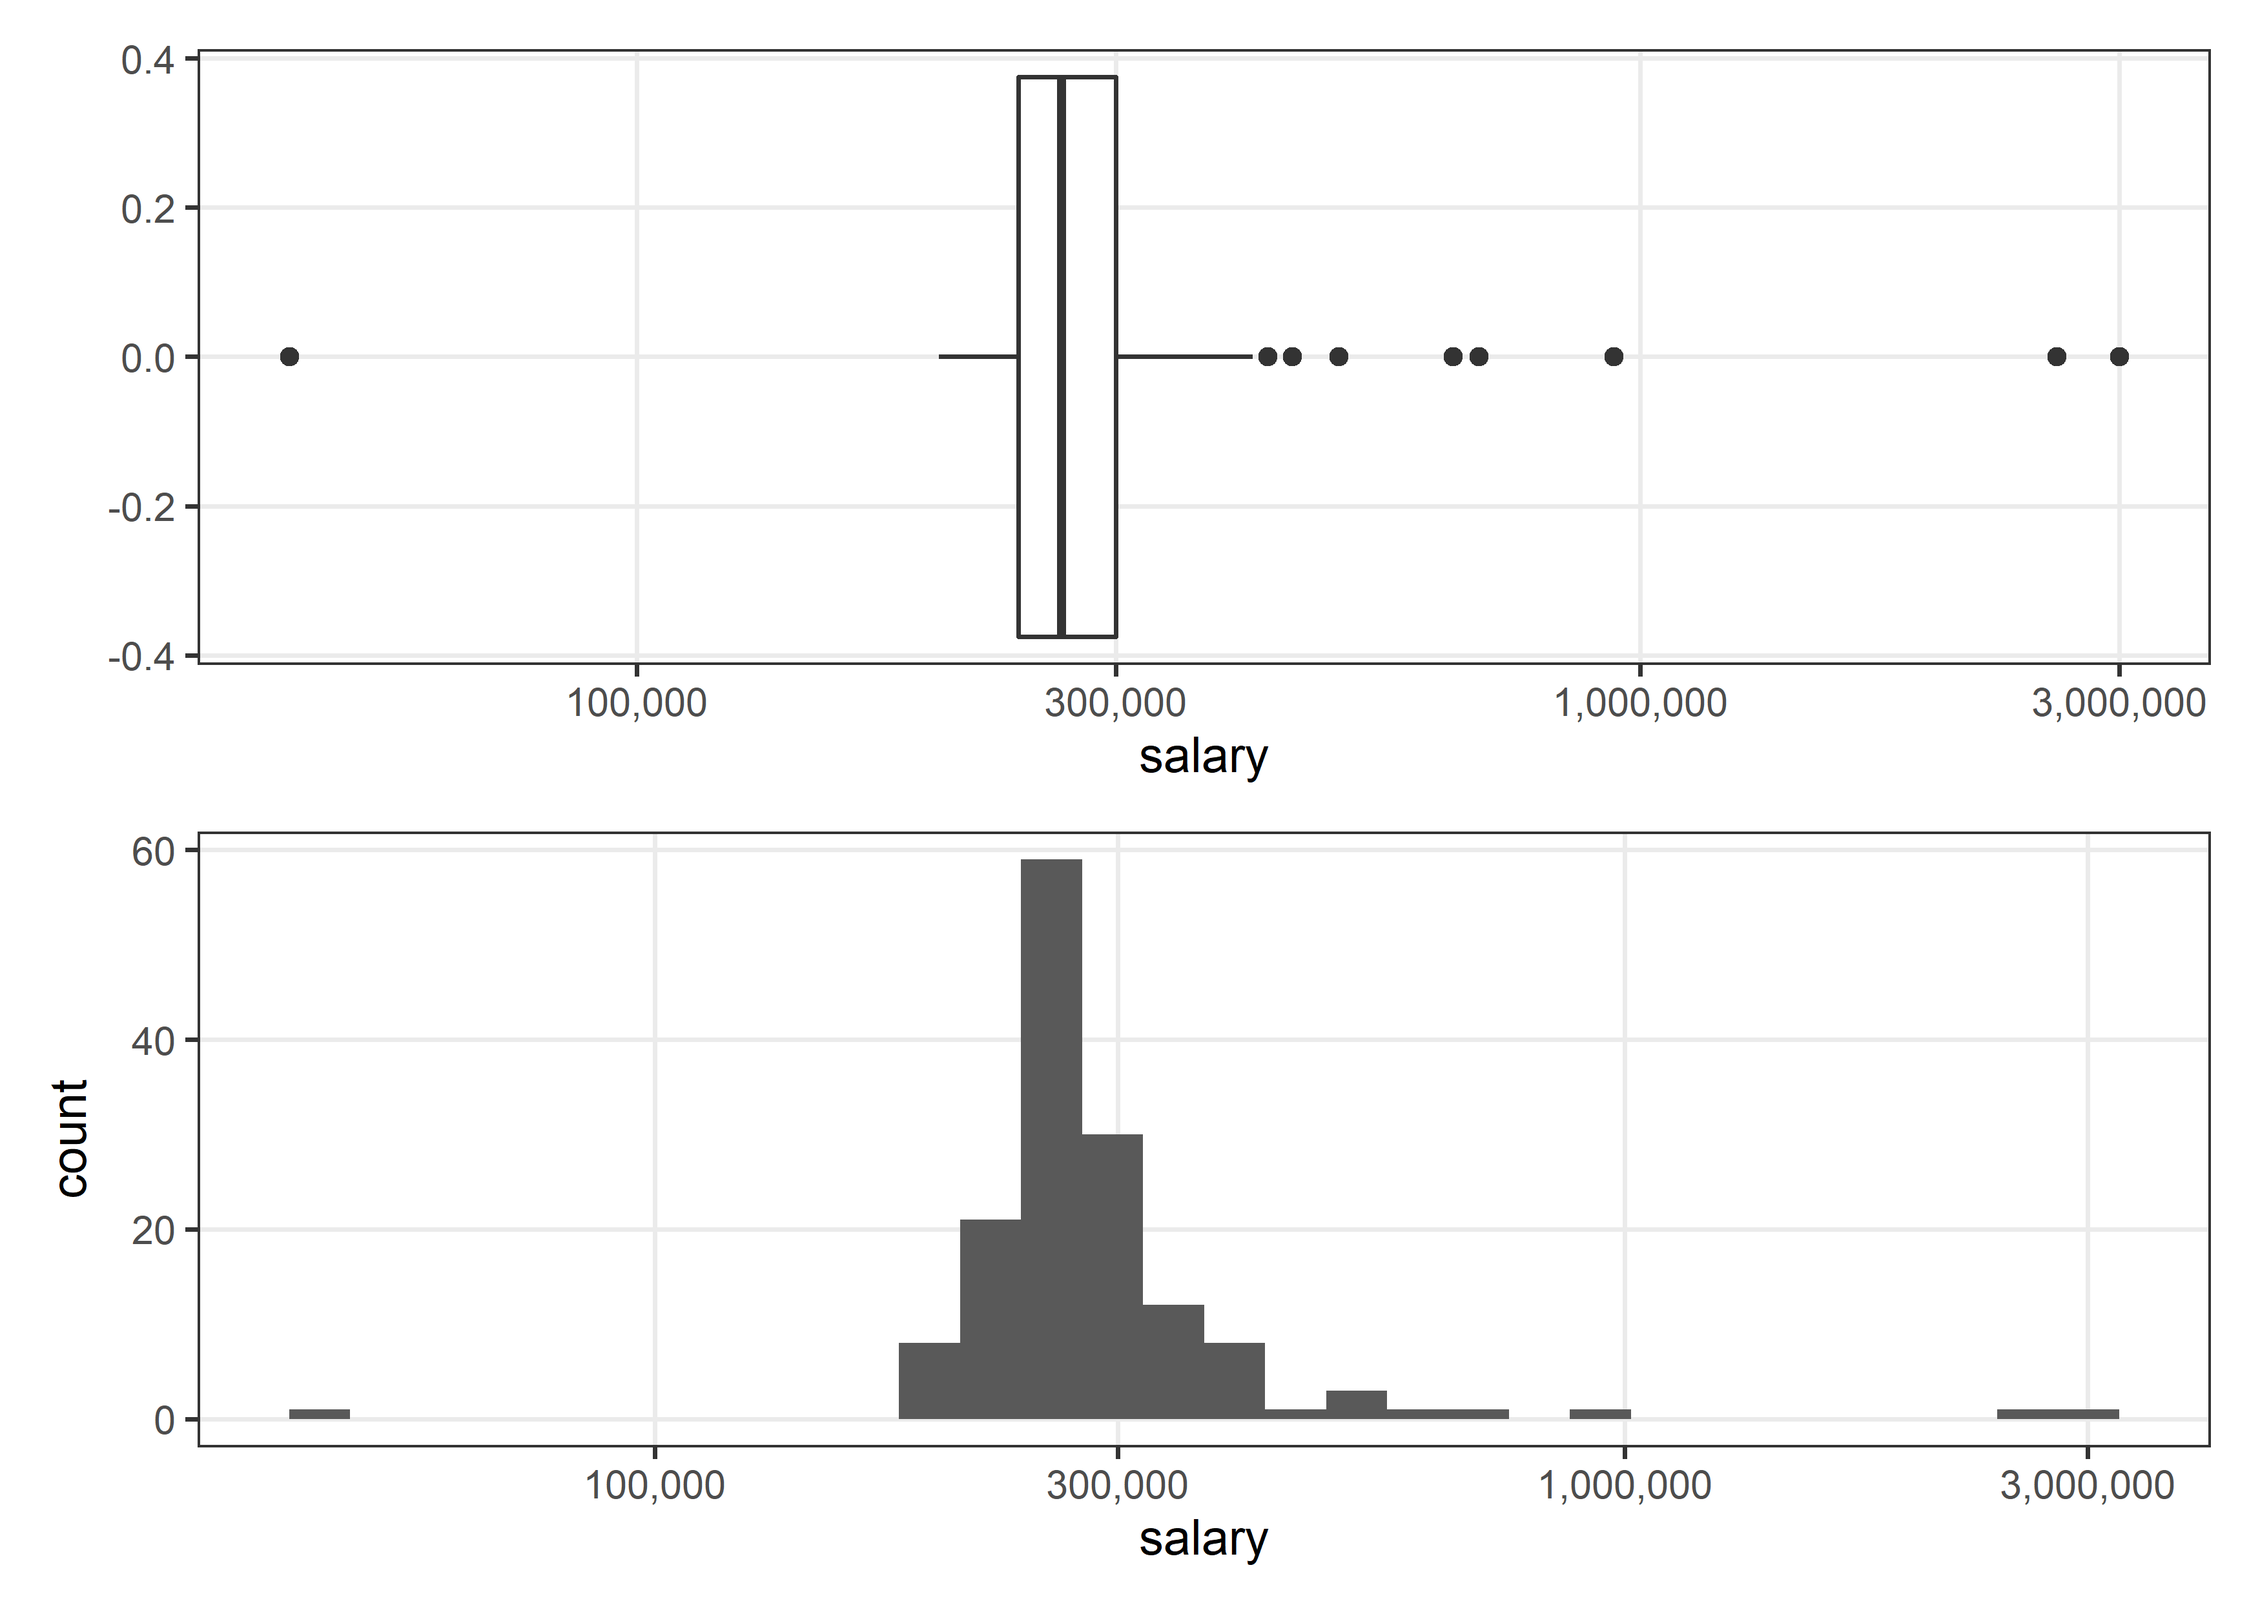
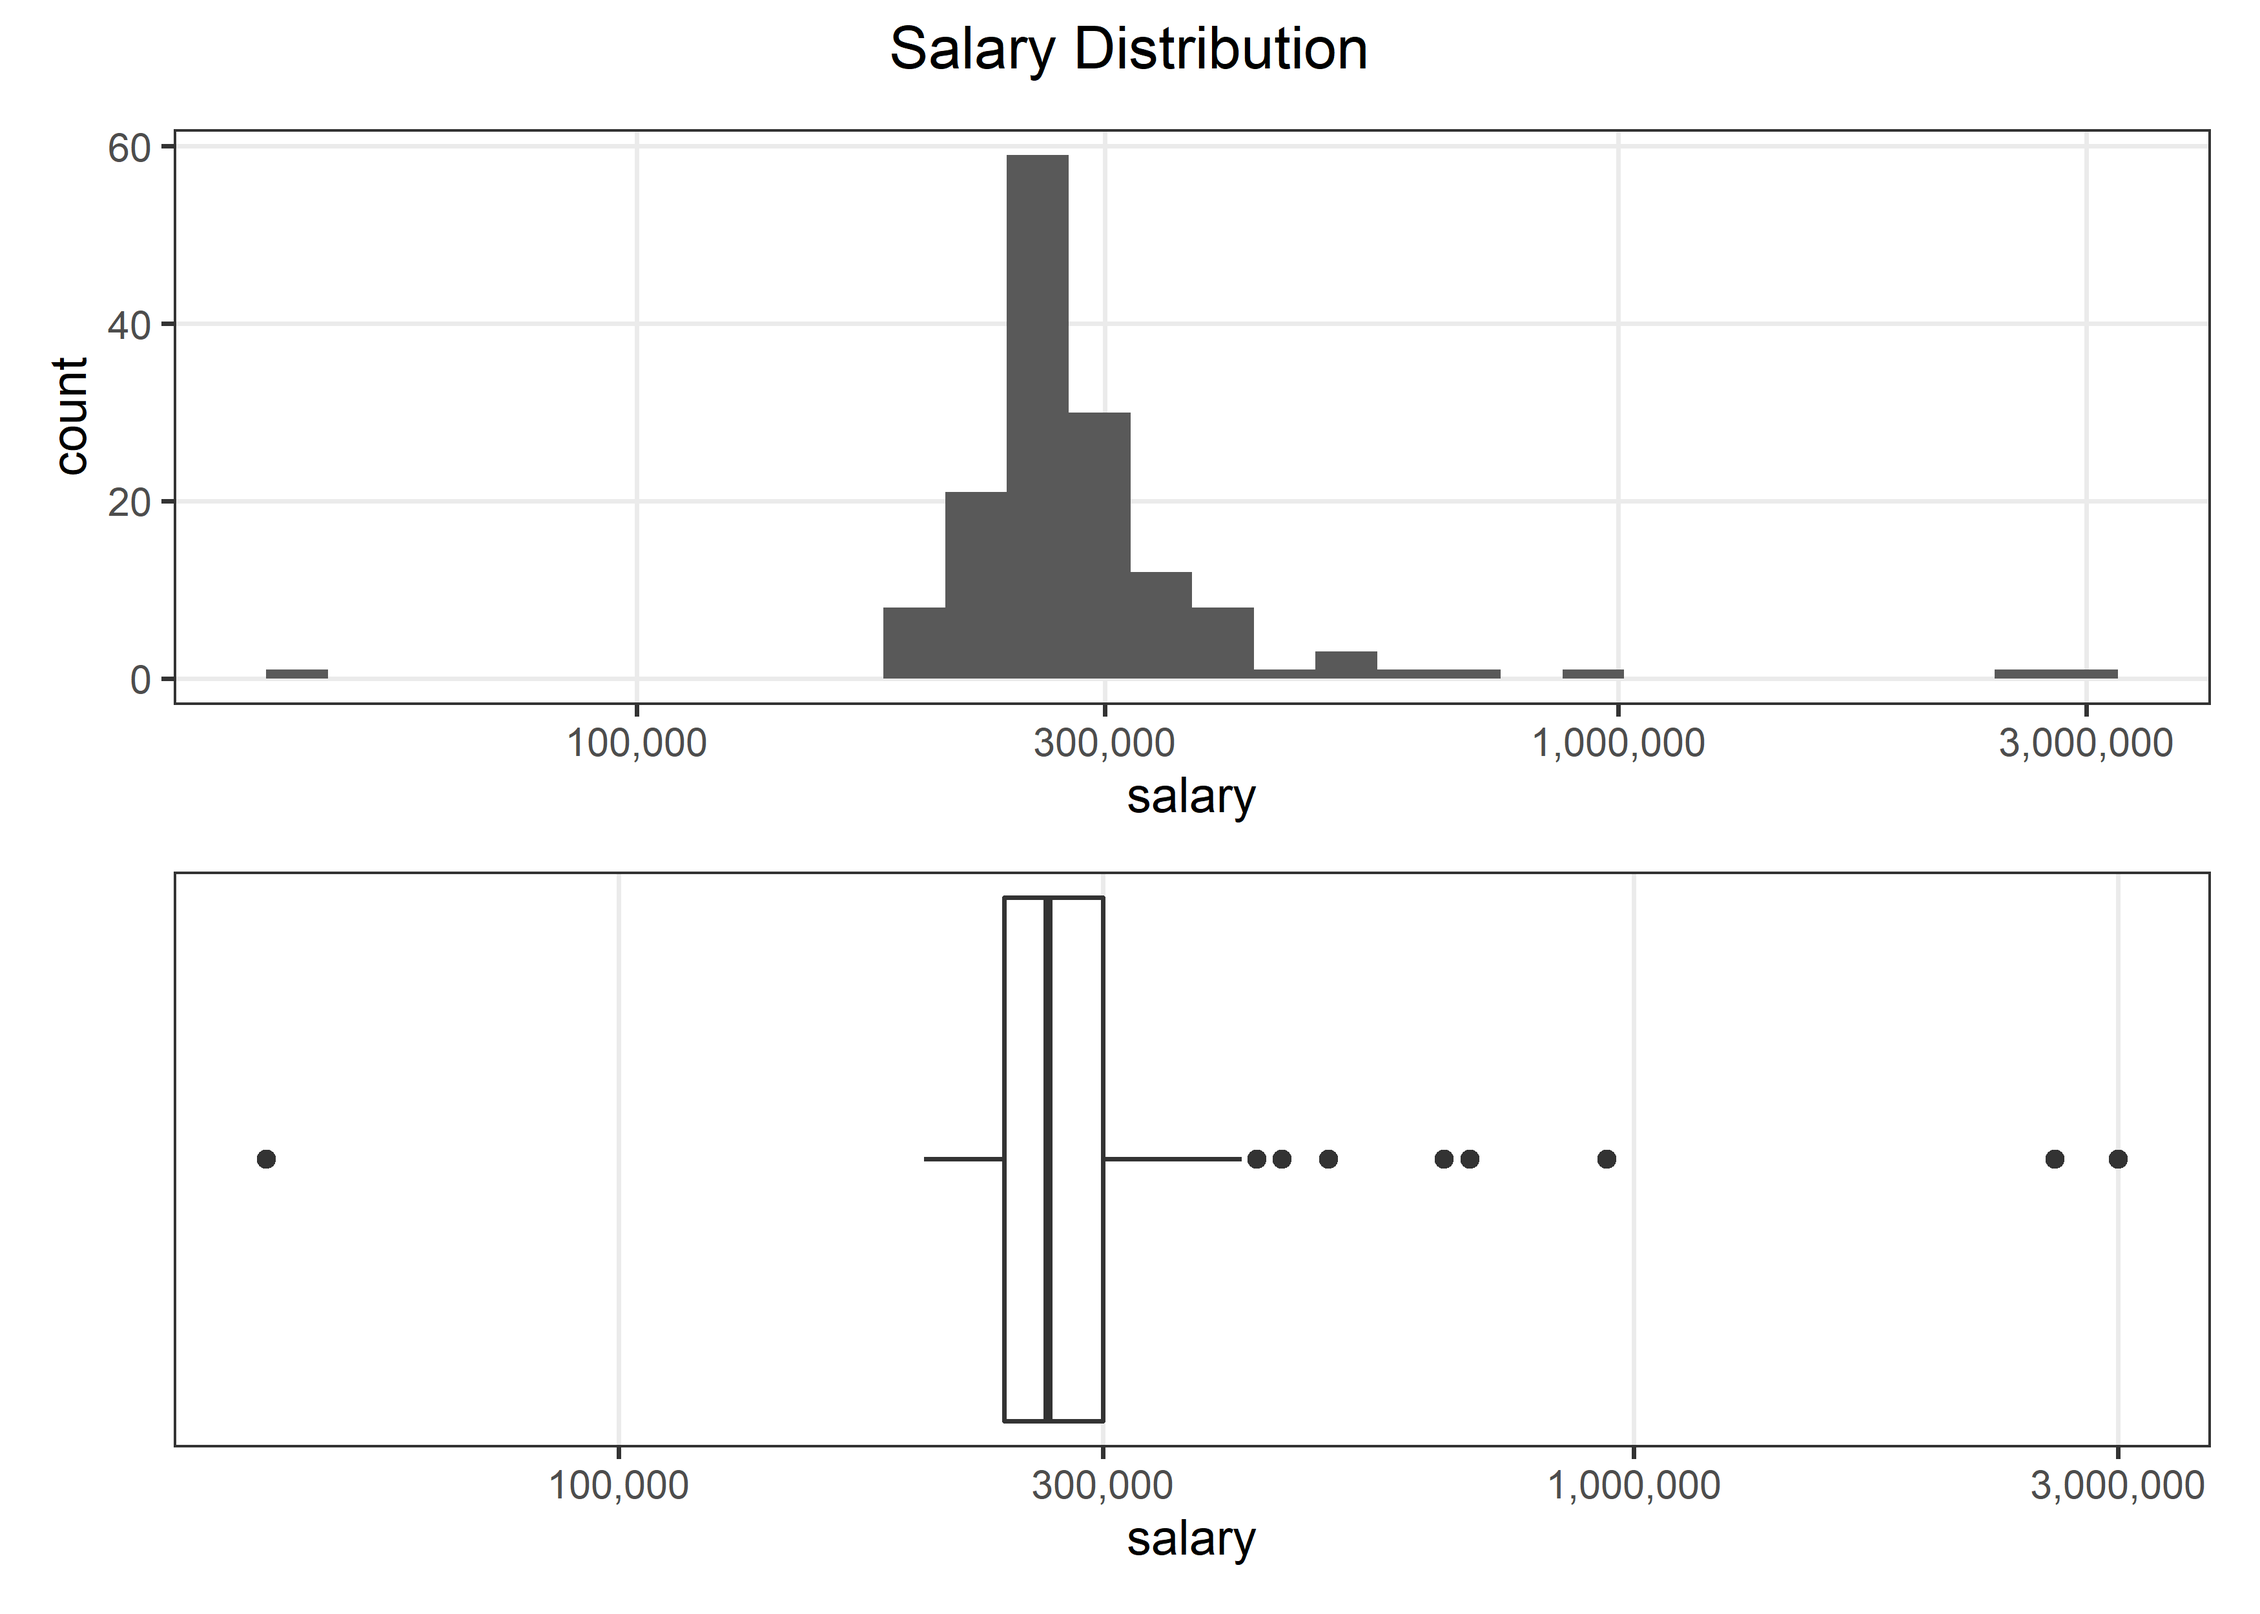
patchwork plots of Outlier heading

diff --git a/Masters Project Fall Placement/Masters-Project-Fall-Placement.md b/Masters Project Fall Placement/Masters-Project-Fall-Placement.md
@@ -7,6 +7,8 @@ Matthew
     -   <a href="#data-dictionary" id="toc-data-dictionary">Data Dictionary</a>
 -   <a href="#cleanse" id="toc-cleanse">Cleanse</a>
 -   <a href="#outliers" id="toc-outliers">Outliers</a>
+-   <a href="#who-are-these-graduates" id="toc-who-are-these-graduates">Who
+    are these graduates?</a>
 
 ``` r
 fall <- read_csv("C:/Users/Matthew Hondrakis/OneDrive/Documents/DataAnalysis/Masters Project Fall Placement/fall2022Placement.csv")
@@ -54,6 +56,10 @@ friends professor. The task is as follows.
     Prepare the data file to run with a regression analysis. Use the
     techniques and methods discussed in class. (*I’m not a student, so
     I’m unfamiliar with what methods were discussed in class*)
+
+-   **Run the regression analysis**: Show the regression scoring. Split
+    the data into training and test sets. Show a confusion matrix for
+    both.
 
 ## Data Dictionary
 
@@ -270,14 +276,97 @@ clean_fall <- fall %>%
 ``` r
 (fall %>% 
   ggplot(aes(salary)) +
-  geom_boxplot() +
-  scale_x_log10(labels = comma_format()))/
+  geom_histogram() +
+  scale_x_log10(labels = comma_format())) /
 (fall %>% 
   ggplot(aes(salary)) +
-  geom_histogram() +
-  scale_x_log10(labels = comma_format()))
+  geom_boxplot() +
+  scale_x_log10(labels = comma_format()) +
+  theme(axis.ticks.y = element_blank(),
+        axis.text.y = element_blank(),
+        axis.line.y = element_blank(),
+        panel.grid.major.y = element_blank())) +
+  plot_annotation(title = "Salary Distribution")
 ```
 
     ## `stat_bin()` using `bins = 30`. Pick better value with `binwidth`.
 
 ![](Masters-Project-Fall-Placement_files/figure-gfm/unnamed-chunk-4-1.png)<!-- -->
+
+``` r
+clean_fall %>% 
+  filter(salary != 0) %>% 
+  arrange(salary) %>% 
+  slice(1) %>% 
+  pull(salary)
+```
+
+    ## [1] 45000
+
+``` r
+updated_fall <- clean_fall %>% 
+  arrange(-salary) %>% 
+  slice(-c(1:8)) %>% 
+  filter(salary != 45000) 
+```
+
+# Who are these graduates?
+
+``` r
+clean_fall %>% 
+  keep(is.numeric) %>% 
+  select(-sl_no) %>% 
+  pairs(upper.panel = NULL)
+```
+
+![](Masters-Project-Fall-Placement_files/figure-gfm/unnamed-chunk-6-1.png)<!-- -->
+
+``` r
+updated_fall %>% 
+  ggplot(aes(salary, fill = gender)) + 
+  geom_boxplot() +
+  scale_x_log10(label = comma_format()) +
+  labs(x = "Salary", title = "Salary Distribution by Gender") +
+  theme(axis.text.y = element_blank(),
+        axis.ticks.y = element_blank(),
+        panel.grid.major.y = element_blank())
+```
+
+![](Masters-Project-Fall-Placement_files/figure-gfm/unnamed-chunk-7-1.png)<!-- -->
+
+Below I will create a function to quickly plot **counts** of factor
+variables. It is often advised to make a function if one foresees using
+the same plot/code often.
+
+``` r
+count_plot <- function(x){
+  updated_fall %>% 
+    filter(!is.na({{x}})) %>% 
+    count({{x}}) %>% 
+    ggplot(aes(n, fct_reorder({{x}}, n))) + 
+    geom_col(color = "black", fill = "lightblue") +
+    geom_text(aes(label = n), hjust = 1.3, size = 3)
+}
+```
+
+``` r
+(count_plot(gender) +
+  labs(x = "", y = "", title = "Number of Graduates by Gender") +
+  theme(panel.grid.major.y = element_blank())) /
+count_plot(degree_t) +
+  labs(y = "", x = "", title = "Degree Type") +
+  theme(panel.grid.major.y = element_blank())
+```
+
+![](Masters-Project-Fall-Placement_files/figure-gfm/character_plot-1.png)<!-- -->
+
+``` r
+(count_plot(hsc_s) +
+   labs(y = "", x = "", title = "Higher Ed Specialisation") +
+   theme(panel.grid.major.y = element_blank())) /
+(count_plot(workex) +
+   labs(y = "", x = "", title = "Work Experience") +
+   theme(panel.grid.major.y = element_blank()))
+```
+
+![](Masters-Project-Fall-Placement_files/figure-gfm/character_plot-2.png)<!-- -->
